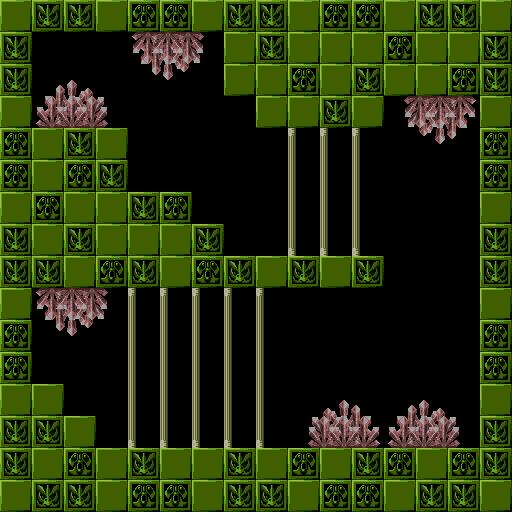
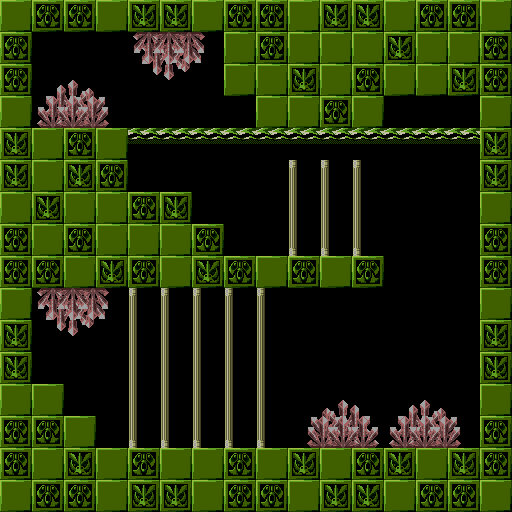
collor change palette effect and waves

diff --git a/makeFile/main.c b/makeFile/main.c
@@ -120,7 +120,36 @@ void VIntHandler()
 	PAL_setColor(38, 0x0EEE);
 
 }
+ void color_changer() {
+static	int time;
 
+	time++;
+	if (time == 1)
+	{
+		PAL_setColor(50, 0x0884);
+		PAL_setColor(51, 0x0640);
+		PAL_setColor(55, 0x0AA6);
+	}
+	if (time == 11)
+	{
+		PAL_setColor(55, 0x0884);
+		PAL_setColor(50, 0x0640);
+		PAL_setColor(51, 0x0AA6);
+		
+	}
+	if (time == 21)
+	{
+		PAL_setColor(55, 0x0640);
+		PAL_setColor(50, 0x0AA6);
+		PAL_setColor(51, 0x0884);
+		
+	}
+	if (time >= 31)
+	{
+		time = 0;
+	}
+
+}
 int main() {
 /// Palette
 	u16 palette[64];
@@ -177,7 +206,7 @@ int main() {
 	memcpy(&palette[0], pal_stage_01a.data, 16 * 2);
 	memcpy(&palette[16], pal_stage_01b.data, 16 * 2);
 	memcpy(&palette[32], pal_player.data, 16 * 2);
-	memcpy(&palette[48], (u16*)palette_black, 16 * 2);
+	memcpy(&palette[48], pal_stage_02a.data, 16 * 2);
 
 	
 	
@@ -193,7 +222,7 @@ int main() {
 		VDP_clearTextArea(0,0,6,1);
 		sprintf(map_char,"%d", map_y);
 		VDP_drawText(map_char,0,0);
-		
+		color_changer();
 	//	if (player_spd_y < 0)
 		//{
 		//	if (hcount_y > 0 && hcount_y <= 224)
@@ -215,7 +244,7 @@ int main() {
 					
 				}	SYS_enableInts();
 			
-			
+				
 		
 		
 		

diff --git a/makeFile/src/boot/rom_head.c b/makeFile/src/boot/rom_head.c
@@ -9,7 +9,7 @@ const ROMHeader rom_header = {
 #else
     "SEGA MEGA DRIVE ",
 #endif
-    "(C)SGDK 2021    ",
+    "(C)SGDK 2022    ",
     "SAMPLE PROGRAM                                  ",
     "SAMPLE PROGRAM                                  ",
     "GM 00000000-00",

diff --git a/makeFile/res/palettes.h b/makeFile/res/palettes.h
@@ -4,5 +4,6 @@
 extern const Palette pal_player;
 extern const Palette pal_stage_01a;
 extern const Palette pal_stage_01b;
+extern const Palette pal_stage_02a;
 
 #endif // _RES_PALETTES_H_
